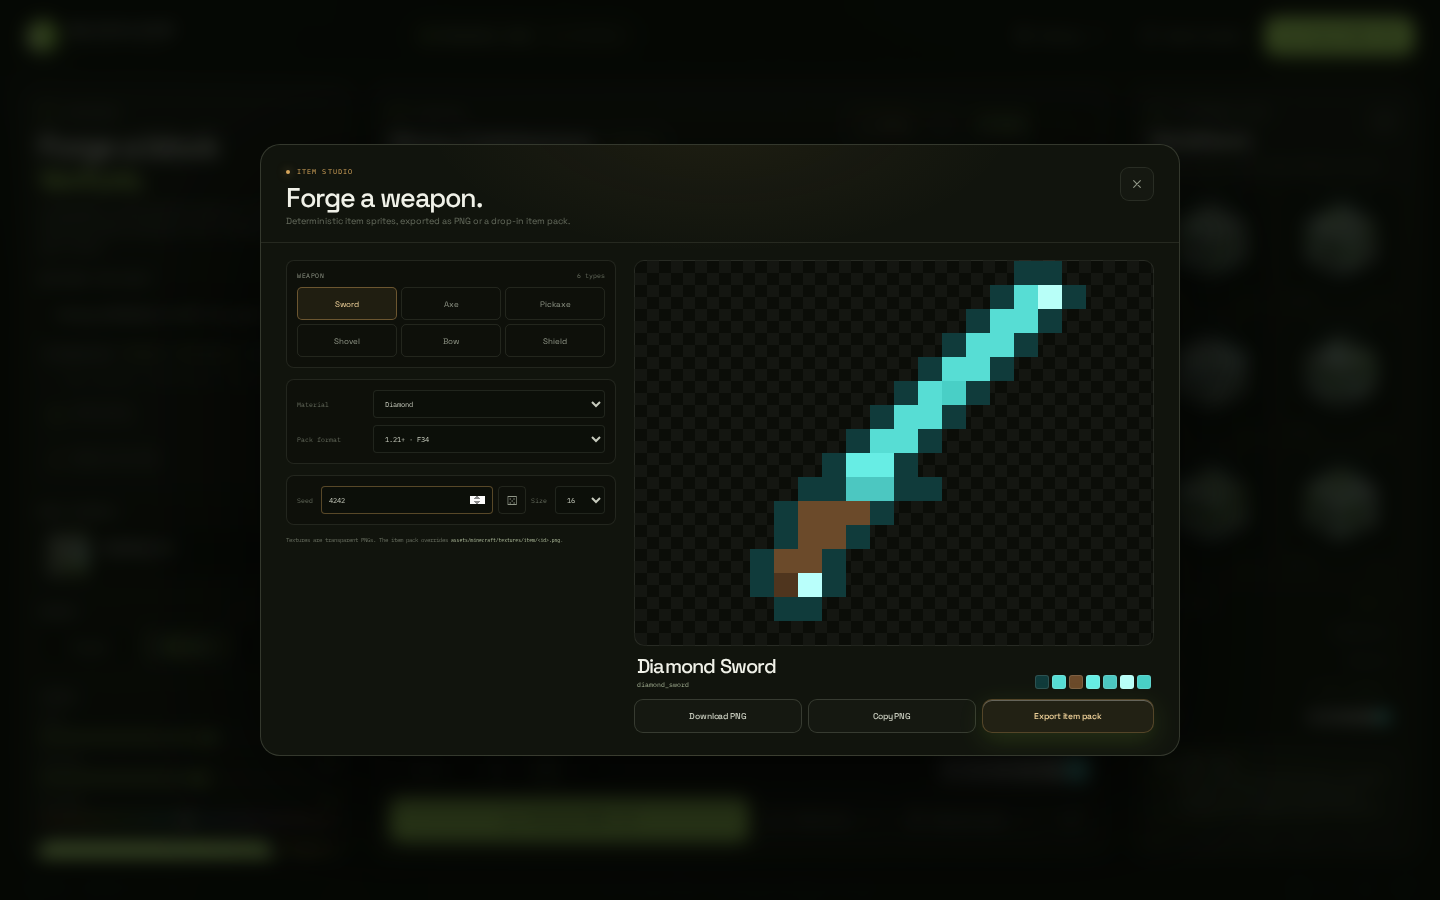
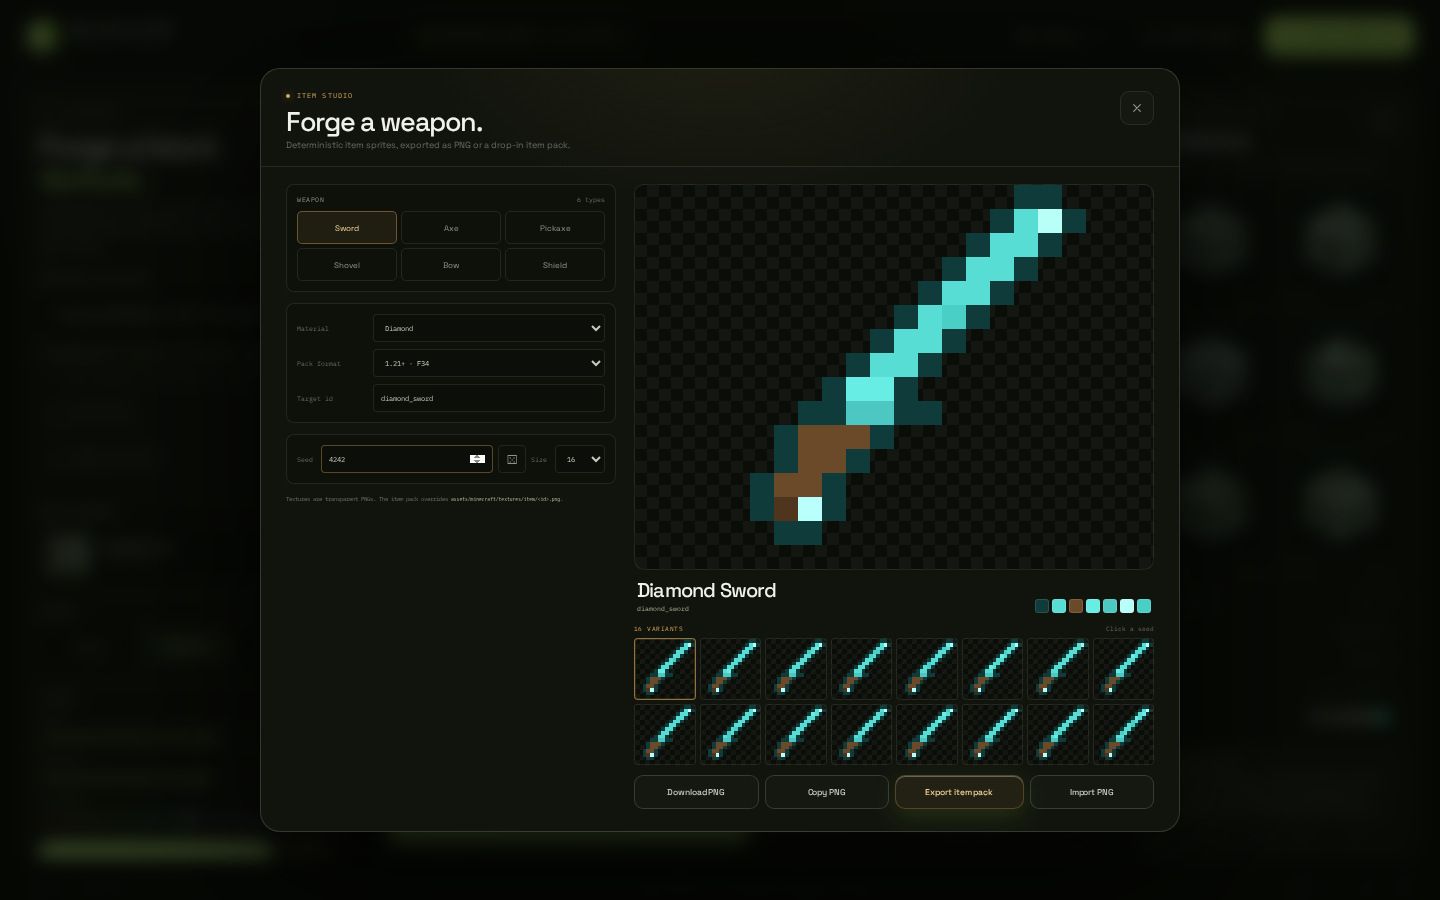
Add 16-variant item sheet and imported item targets

diff --git a/js/app.js b/js/app.js
@@ -90,6 +90,8 @@ const els = {
   itemImportBtn: $('#itemImportBtn'),
   itemImportInput: $('#itemImportInput'),
   itemTargetInput: $('#itemTargetInput'),
+  itemVariantsWrap: $('#itemVariantsWrap'),
+  itemVariants: $('#itemVariants'),
   importInput: $('#importInput'),
   dropOverlay: $('#dropOverlay'),
   textureTitle: $('#textureTitle'),
@@ -260,6 +262,7 @@ const state = {
   itemCurrent: null,
   itemTarget: 'iron_sword',
   itemImported: false,
+  itemVariantRoot: 42317,
   dragDepth: 0,
 };
 
@@ -2562,6 +2565,52 @@ function renderItemTypeButtons() {
   els.itemTypes.append(fragment);
 }
 
+function itemVariantSeeds() {
+  return Array.from({ length: 16 }, (_, index) => {
+    if (index === 0) return state.itemVariantRoot;
+    return ((state.itemVariantRoot + index * 7919) % 999999999) + 1;
+  });
+}
+
+function renderItemVariants() {
+  if (state.itemImported) {
+    els.itemVariantsWrap.hidden = true;
+    els.itemVariants.replaceChildren();
+    return;
+  }
+  els.itemVariantsWrap.hidden = false;
+  const seeds = itemVariantSeeds();
+  const fragment = document.createDocumentFragment();
+  for (const seed of seeds) {
+    const result = generateItem({
+      type: state.itemType,
+      material: state.itemMaterial,
+      seed,
+      size: 16,
+    });
+    const button = document.createElement('button');
+    button.type = 'button';
+    button.className = `item-variant${seed === state.itemSeed ? ' is-current' : ''}`;
+    button.dataset.seed = String(seed);
+    button.setAttribute('aria-label', `Use item seed ${seed}`);
+    const canvas = document.createElement('canvas');
+    canvas.width = 32;
+    canvas.height = 32;
+    const context = canvas.getContext('2d');
+    context.imageSmoothingEnabled = false;
+    context.drawImage(itemCanvasFromResult(result), 0, 0, 32, 32);
+    button.append(canvas);
+    fragment.append(button);
+  }
+  els.itemVariants.replaceChildren(fragment);
+}
+
+function updateItemVariantSelection() {
+  for (const button of $$('.item-variant', els.itemVariants)) {
+    button.classList.toggle('is-current', Number(button.dataset.seed) === state.itemSeed);
+  }
+}
+
 function renderItemSelectors() {
   els.itemMaterial.replaceChildren();
   for (const material of ITEM_MATERIALS) {
@@ -2643,6 +2692,7 @@ function renderItemStudio() {
   state.itemCurrent = result;
   state.itemTarget = result.recipe.itemId;
   state.itemImported = false;
+  if (els.itemVariantsWrap) els.itemVariantsWrap.hidden = false;
   state.itemCanvas = itemCanvasFromResult(result);
   drawItemPreviewCanvas();
   els.itemTitle.textContent = `${material.name} ${type.name}`;
@@ -2657,6 +2707,7 @@ function renderItemStudio() {
     els.itemPalette.append(swatch);
   }
   if (document.activeElement !== els.itemSeed) els.itemSeed.value = state.itemSeed;
+  updateItemVariantSelection();
 }
 
 async function importItemTexture(file) {
@@ -2674,6 +2725,8 @@ async function importItemTexture(file) {
     context.clearRect(0, 0, targetSize, targetSize);
     context.drawImage(image, 0, 0, plan.sourceWidth, plan.cropHeight, 0, 0, targetSize, targetSize);
     state.itemImported = true;
+    els.itemVariantsWrap.hidden = true;
+    els.itemVariants.replaceChildren();
     state.itemCanvas = canvas;
     state.itemSize = targetSize;
     state.itemTarget = importTitle(file.name).toLowerCase().replace(/[^a-z0-9]+/g, '_').replace(/^_|_$/g, '') || 'imported_item';
@@ -2701,8 +2754,10 @@ async function importItemTexture(file) {
 }
 
 function openItemStudio() {
+  state.itemVariantRoot = state.itemSeed;
   renderItemSelectors();
   renderItemStudio();
+  renderItemVariants();
   if (!els.itemDialog.open) {
     document.body.classList.add('dialog-open');
     els.itemDialog.showModal();
@@ -3281,10 +3336,12 @@ function bindEvents() {
     state.itemType = button.dataset.type;
     renderItemTypeButtons();
     renderItemStudio();
+    renderItemVariants();
   });
   els.itemMaterial.addEventListener('change', () => {
     state.itemMaterial = els.itemMaterial.value;
     renderItemStudio();
+    renderItemVariants();
   });
   els.itemFormat.addEventListener('change', () => {
     state.itemFormat = els.itemFormat.value;
@@ -3293,13 +3350,17 @@ function bindEvents() {
     const value = Number(els.itemSeed.value);
     if (Number.isFinite(value) && value >= 1) {
       state.itemSeed = Math.min(999999999, Math.round(value));
+      state.itemVariantRoot = state.itemSeed;
       renderItemStudio();
+      renderItemVariants();
     }
   });
   els.itemDice.addEventListener('click', () => {
     state.itemSeed = randomSeed();
+    state.itemVariantRoot = state.itemSeed;
     els.itemSeed.value = state.itemSeed;
     renderItemStudio();
+    renderItemVariants();
   });
   els.itemSize.addEventListener('change', () => {
     state.itemSize = Number(els.itemSize.value) || 16;
@@ -3312,6 +3373,14 @@ function bindEvents() {
   els.itemImportInput.addEventListener('change', () => {
     const file = els.itemImportInput.files?.[0];
     if (file) importItemTexture(file);
+  });
+  els.itemVariants.addEventListener('click', (event) => {
+    const button = event.target.closest('[data-seed]');
+    if (!button) return;
+    state.itemSeed = Number(button.dataset.seed);
+    els.itemSeed.value = state.itemSeed;
+    renderItemStudio();
+    updateItemVariantSelection();
   });
   els.itemTargetInput.addEventListener('input', () => {
     const value = els.itemTargetInput.value.toLowerCase().replace(/[^a-z0-9_-]+/g, '_').replace(/^_+|_+$/g, '').slice(0, 64);

diff --git a/styles.css b/styles.css
@@ -2918,3 +2918,12 @@ body.is-dragging-file .drop-overlay { display: grid; }
   .item-actions .btn { flex: 1 1 45%; }
 }
 .item-target-field input { font-size: 6.5px; color: #a5b294; }
+.item-variants-wrap { margin-top: 2px; }
+.item-variants-head { display: flex; align-items: center; justify-content: space-between; margin-bottom: 5px; color: #d6a65c; font-family: var(--font-mono); font-size: 6.2px; letter-spacing: .08em; }
+.item-variants-head span:last-child { color: var(--dim); letter-spacing: 0; text-transform: none; }
+.item-variants-grid { display: grid; grid-template-columns: repeat(8, 1fr); gap: 4px; }
+.item-variant { position: relative; aspect-ratio: 1; padding: 0; border: 1px solid var(--line); border-radius: 4px; background-color: #0b0d08; background-image: linear-gradient(45deg, rgba(255,255,255,.035) 25%, transparent 25%), linear-gradient(-45deg, rgba(255,255,255,.035) 25%, transparent 25%), linear-gradient(45deg, transparent 75%, rgba(255,255,255,.035) 75%), linear-gradient(-45deg, transparent 75%, rgba(255,255,255,.035) 75%); background-size: 10px 10px; background-position: 0 0, 0 5px, 5px -5px, -5px 0; transition: .15s ease; }
+.item-variant canvas { width: 100%; height: 100%; display: block; image-rendering: pixelated; }
+.item-variant:hover { border-color: rgba(214,166,92,.38); transform: translateY(-1px); }
+.item-variant.is-current { border-color: rgba(214,166,92,.65); box-shadow: 0 0 0 1px rgba(214,166,92,.15) inset; }
+@media (max-width: 760px) { .item-variants-grid { grid-template-columns: repeat(8, 1fr); gap: 3px; } }

diff --git a/index.html b/index.html
@@ -773,6 +773,10 @@
             <div><h3 id="itemTitle">Iron Sword</h3><p id="itemTarget">iron_sword</p></div>
             <div class="item-palette" id="itemPalette"></div>
           </div>
+          <div class="item-variants-wrap" id="itemVariantsWrap">
+            <div class="item-variants-head"><span>16 VARIANTS</span><span>Click a seed</span></div>
+            <div class="item-variants-grid" id="itemVariants"></div>
+          </div>
           <div class="item-actions">
             <button class="btn btn-outline" id="itemDownloadBtn" type="button">Download PNG</button>
             <button class="btn btn-outline" id="itemCopyBtn" type="button">Copy PNG</button>

diff --git a/README.md b/README.md
@@ -186,6 +186,7 @@ Use **Import texture** in the left panel, press **I**, or drop a PNG onto the st
 Open **Weapon / item studio** in the left panel or press **W**.
 
 - Six item types: sword, axe, pickaxe, shovel, bow, shield.
+- **16 seed variants** per type/material, click to compare and select.
 - Eight material palettes: wood, stone, iron, gold, diamond, netherite, copper, emerald.
 - Deterministic 16 px sprites, scalable to 32/64 px, with transparent backgrounds.
 - Download PNG, copy PNG, or export a drop-in **item resource pack**.
@@ -196,6 +197,8 @@ Open **Weapon / item studio** in the left panel or press **W**.
 ![Item studio](screenshots/blockloom-item-studio.png)
 
 This is separate from the block library/finisher for now: item sprites export directly rather than entering the three-face block archive. Web-generated textures work through the same local import path; Blockloom does not scrape or log into external services.
+
+The 16-variant sheet is modeled on the workflow observed in Bloxal’s public studio: one prompt produces a sheet of alternatives, then the creator picks one and edits it.
 
 ## Texture generation
 
